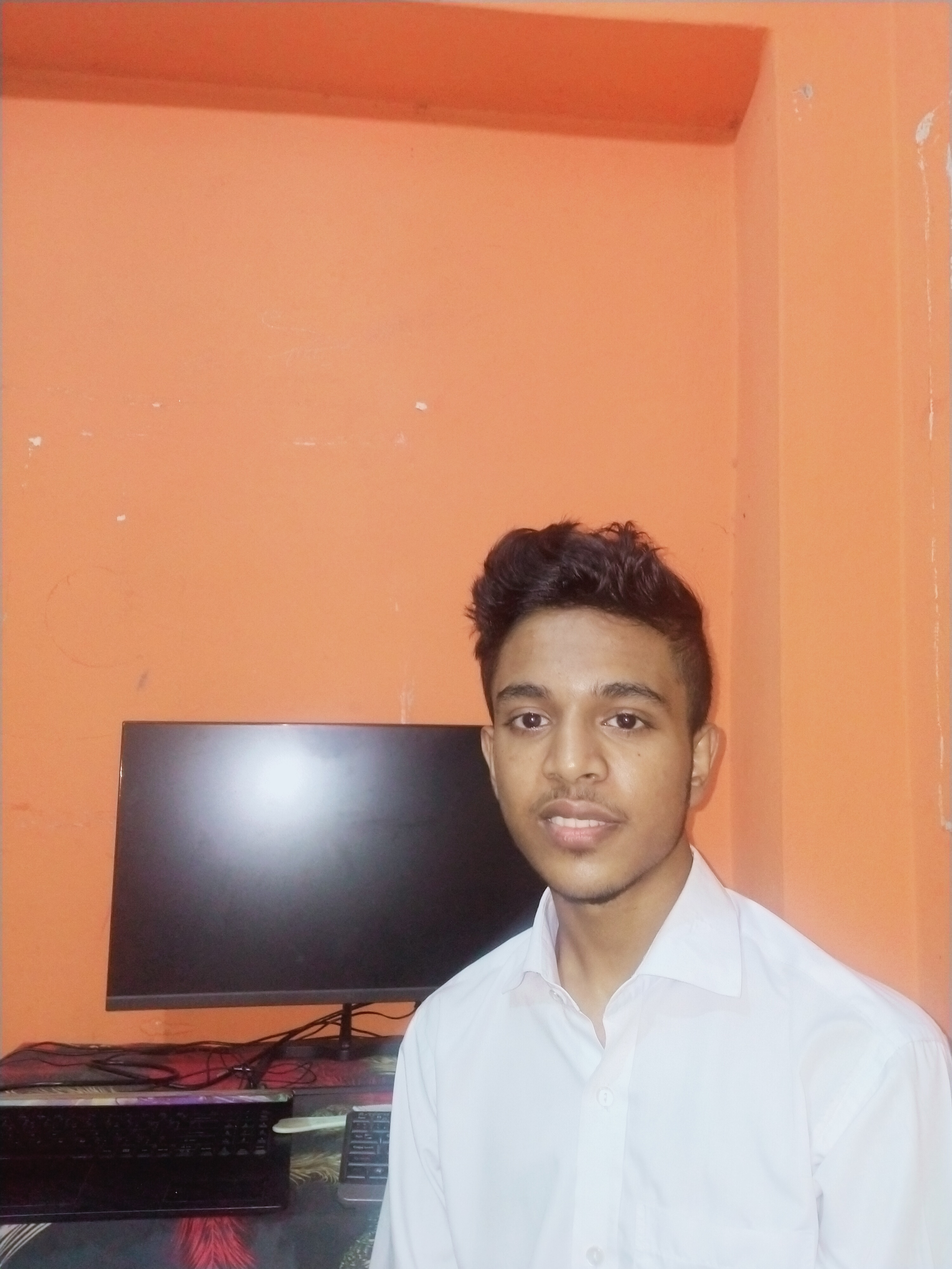
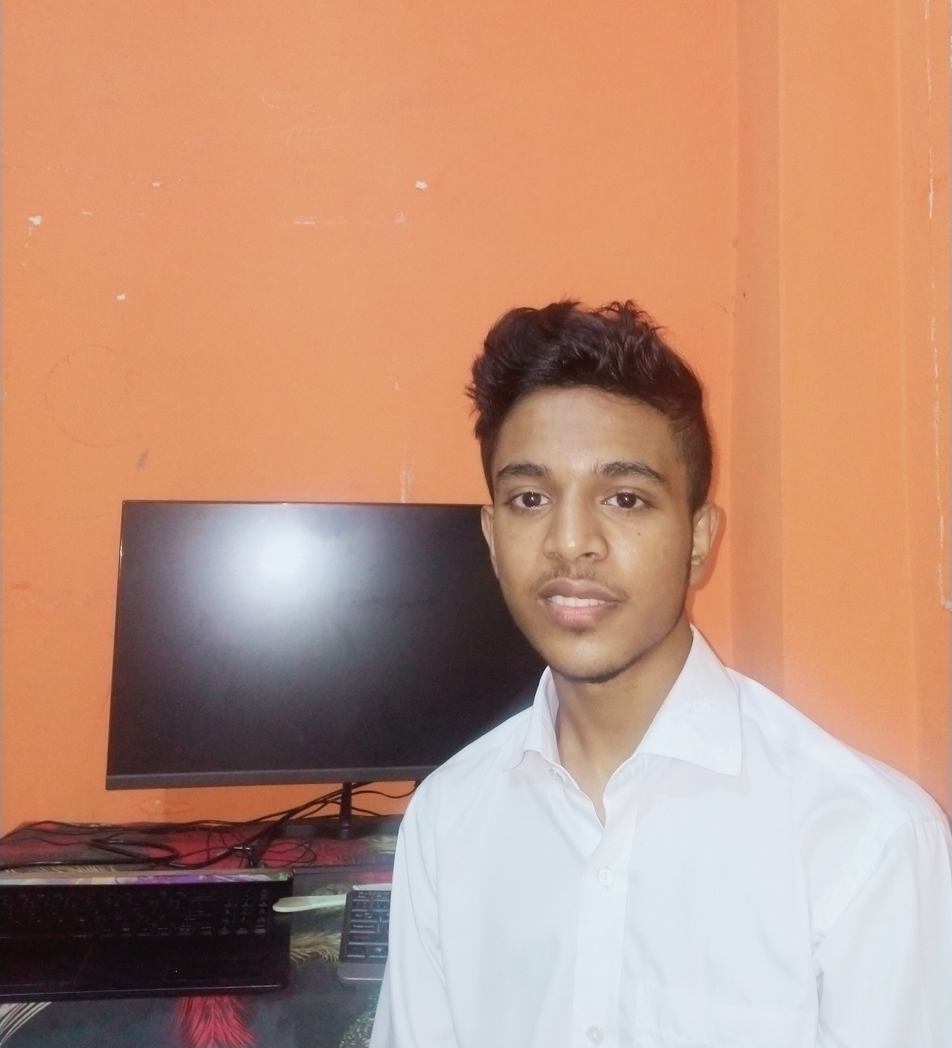
Resize image in profile

diff --git a/src/components/Photo.jsx b/src/components/Photo.jsx
@@ -1,6 +1,7 @@
 "use client";
 import { delay, motion } from "framer-motion";
 import Image from "next/image";
+// import profileImage from "@/public/likhon-islam.jpg";
 import profileImage from "@/public/likhon-islam.jpg";
 const Photo = () => {
   return (
@@ -20,16 +21,18 @@ const Photo = () => {
               opacity: 1,
               transition: { delay: 1.2, duration: 0.2, ease: "easeInOut" }
             }}
-            className="w-[298px] h-[298px] xl:h-[350px] xl:w-[350px]"
+            className="flex items-center justify-center w-[278px] h-[278px] xl:h-[350px] xl:w-[350px] mx-auto"
           >
-            <Image
-              src={profileImage}
-              priority
-              quality={100}
-              fill
-              className=" rounded-full object-cover"
-              alt="Likhon Islam Profile Image likhon islam"
-            />
+            <div className="relative w-full h-full rounded-full overflow-hidden">
+              <Image
+                src={profileImage}
+                priority
+                quality={100}
+                fill
+                className="object-cover"
+                alt="Likhon Islam Profile Image"
+              />
+            </div>
           </motion.div>
         </motion.div>
 
@@ -50,7 +53,7 @@ const Photo = () => {
             }}
           >
             <motion.svg
-              className="w-[300px] xl:w-[355px] h-[300px]  xl:h-[355px] z-10 absolute top-1/2 left-1/2 transform -translate-x-1/2 -translate-y-1/2"
+              className="w-[285px] h-[285px] xl:w-[355px]   xl:h-[355px] z-10 absolute top-1/2 left-1/2 transform -translate-x-1/2 -translate-y-1/2"
               fill="transparent"
               viewBox="0 0 506 506"
               xmlns="http://www.w3.org/2000/svg"
